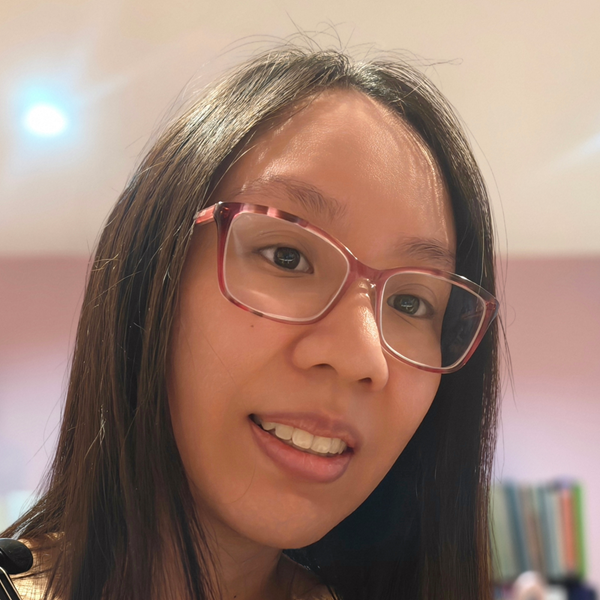
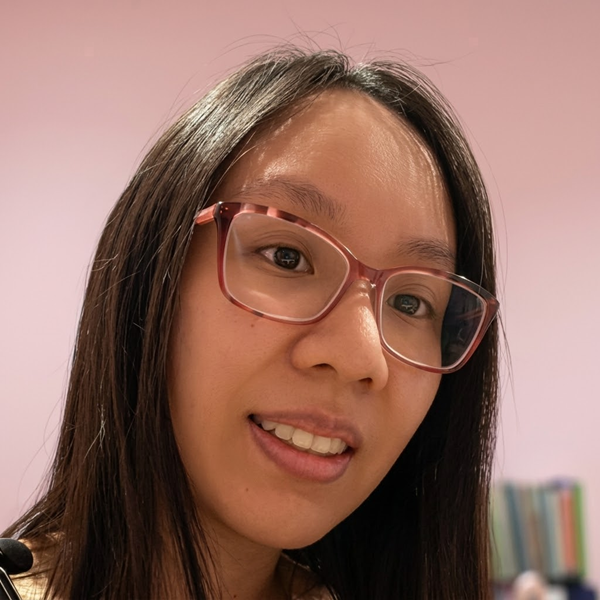
added project

diff --git a/projects.html b/projects.html
@@ -37,6 +37,34 @@
         <h1><span>Personal Projects</span></h1>
 
         <dl>
+            
+            <div class="project-box">
+                <dt>
+                    <div style="display: flex; justify-content: space-between; position: relative; z-index: 2;">
+                        <strong>📁 Canvas & Schoology Course Downloader</strong>
+                        <strong>Aug 2026 - Sep 2026 </strong>
+                    </div>
+                    <div style="display: flex; justify-content: space-between; position: relative; z-index: 2;">
+                        <i>🐍 Python | Playwright</i>
+                    </div>
+                </dt>
+                 <dd>· Developed an automated web scraping and content extraction tool using Playwright to traverse Learning Management System platforms (Canvas, Schoology) and back up course materials.</dd>
+                <dd>· Implemented direct file extraction via Playwright using the browser's download manager or converting the webpages/materials to PDF format.</dd>
+                <dd>· Designed navigation logic to automatically handle credentials and traversing course modules by recognizing certain HTML elements on the webpages.</dd>
+                <br>
+                <a href="" style="position: relative; z-index: 2;">
+                    <img alt="🐱" src="github.png" width="50" height="50" onerror="this.src=
+        'https://www.iconsdb.com/icons/preview/purple/github-9-xxl.png'
+    " />
+                </a>
+                <a href="" style="position: relative; z-index: 2;">
+                    <img alt="🔗" src="link.png" width="50" height="50" onerror="this.src=
+        'https://upload.wikimedia.org/wikipedia/commons/5/56/Chain_link_icon_slanted.png'
+    " />
+                </a>
+                <br><br>
+            </div>
+            
             <div class="project-box">
                 <dt>
                     <div style="display: flex; justify-content: space-between; position: relative; z-index: 2;">
